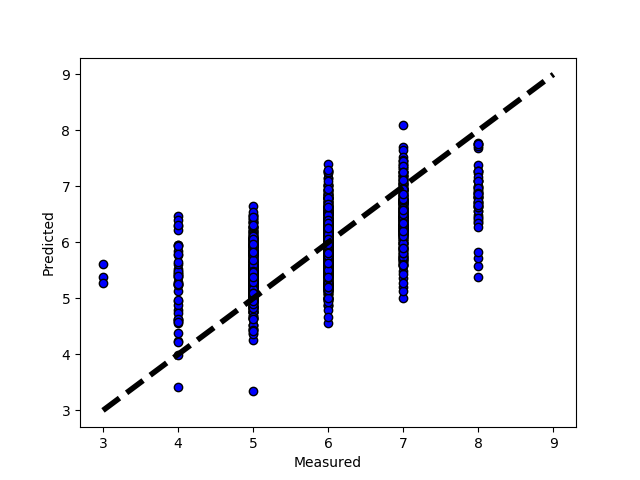
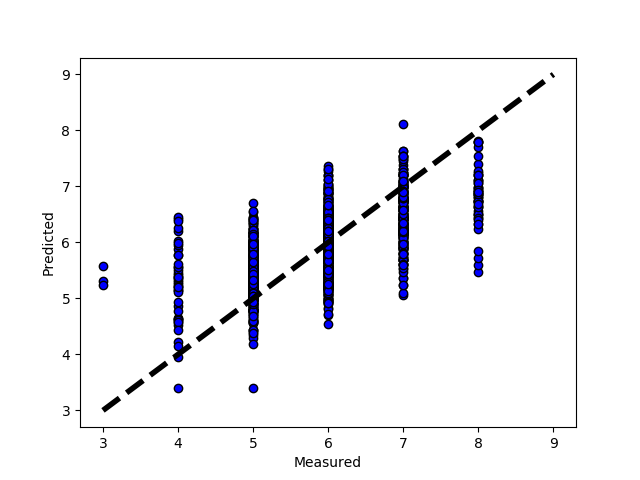
chaned the value of epsilon from 0.25 to 0.2 and increased accuracy slightly

diff --git a/SupportVectorRegression.py b/SupportVectorRegression.py
@@ -12,7 +12,7 @@ class SupportVectorRegression:
         self.y = y
         self.XTrain, self.XTest, self.yTrain, self.yTest = train_test_split(X, y, test_size=0.3, random_state=6)
         scaler = StandardScaler().fit(self.XTrain)
-        clf = SVR(kernel="rbf", C=10, epsilon=0.25)
+        clf = SVR(kernel="rbf", C=10, epsilon=0.2)
         self.svr_ = clf.fit(scaler.transform(self.XTrain), self.yTrain)
         self.pred = clf.predict(scaler.transform(self.XTest))
         # y_rand = np.random.randint(11, size=len(y_test))

diff --git a/main.py b/main.py
@@ -1,13 +1,3 @@
-"""
-This function will be used to call both algorithms; Linear Regression and K-Means Clustering.
-The Data set we a re working with is winequality_white.csv
-The metrics we are using to evaluate our algorithms are:
-Linear Regression:
-K-Means Clustering:
-
-The frame work we are using is sci-kit (sk) learn
-
-"""
 import LinearRegression
 import SupportVectorRegression
 import numpy as np
